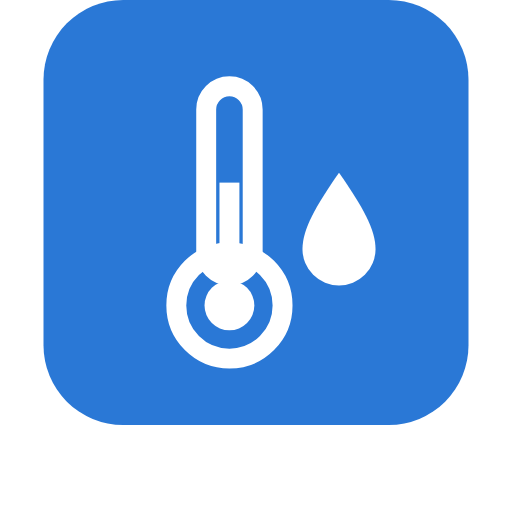
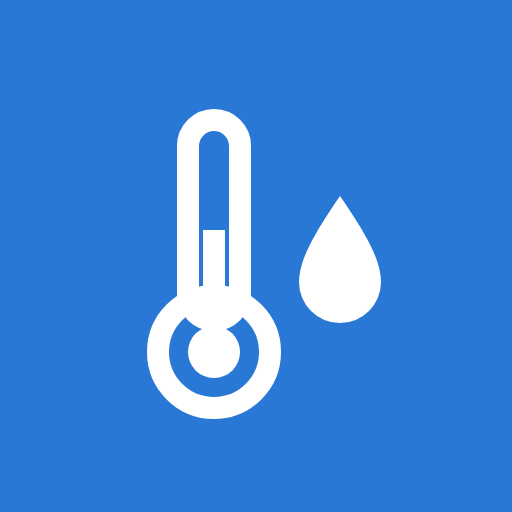
PWAアイコンを再生成しアプリ名をリビング環境に変更
- 以前のPNGはラスタライズ時にSVGが読み込まれず全面白のまま
  コミットされていたため、Playwright経由で再生成
- ホーム画面側で角丸マスクされる前提のフルブリードデザインに変更
- manifest の name/short_name と apple-mobile-web-app-title を
  「リビング環境」系に変更
- Service Worker キャッシュ v3

Claude-Session: https://claude.ai/code/session_01C3yf3gdcBrUnLUoa3cftKW

diff --git a/index.html b/index.html
@@ -6,7 +6,8 @@
   <meta name="color-scheme" content="light dark">
   <meta name="theme-color" content="#fcfcfb" media="(prefers-color-scheme: light)">
   <meta name="theme-color" content="#1a1a19" media="(prefers-color-scheme: dark)">
-  <title>環境ダッシュボード</title>
+  <title>リビング環境ダッシュボード</title>
+  <meta name="apple-mobile-web-app-title" content="リビング環境">
   <link rel="manifest" href="manifest.webmanifest">
   <link rel="icon" href="icons/icon.svg" type="image/svg+xml">
   <link rel="apple-touch-icon" href="icons/icon-180.png">

diff --git a/sw.js b/sw.js
@@ -2,7 +2,7 @@
  * アプリシェルは cache-first、data/*.json と config.json は network-first
  * (オフライン時はキャッシュ済みの直近データにフォールバック)。
  */
-const CACHE = "env-dashboard-v2";
+const CACHE = "env-dashboard-v3";
 const SHELL = [
   "./",
   "index.html",